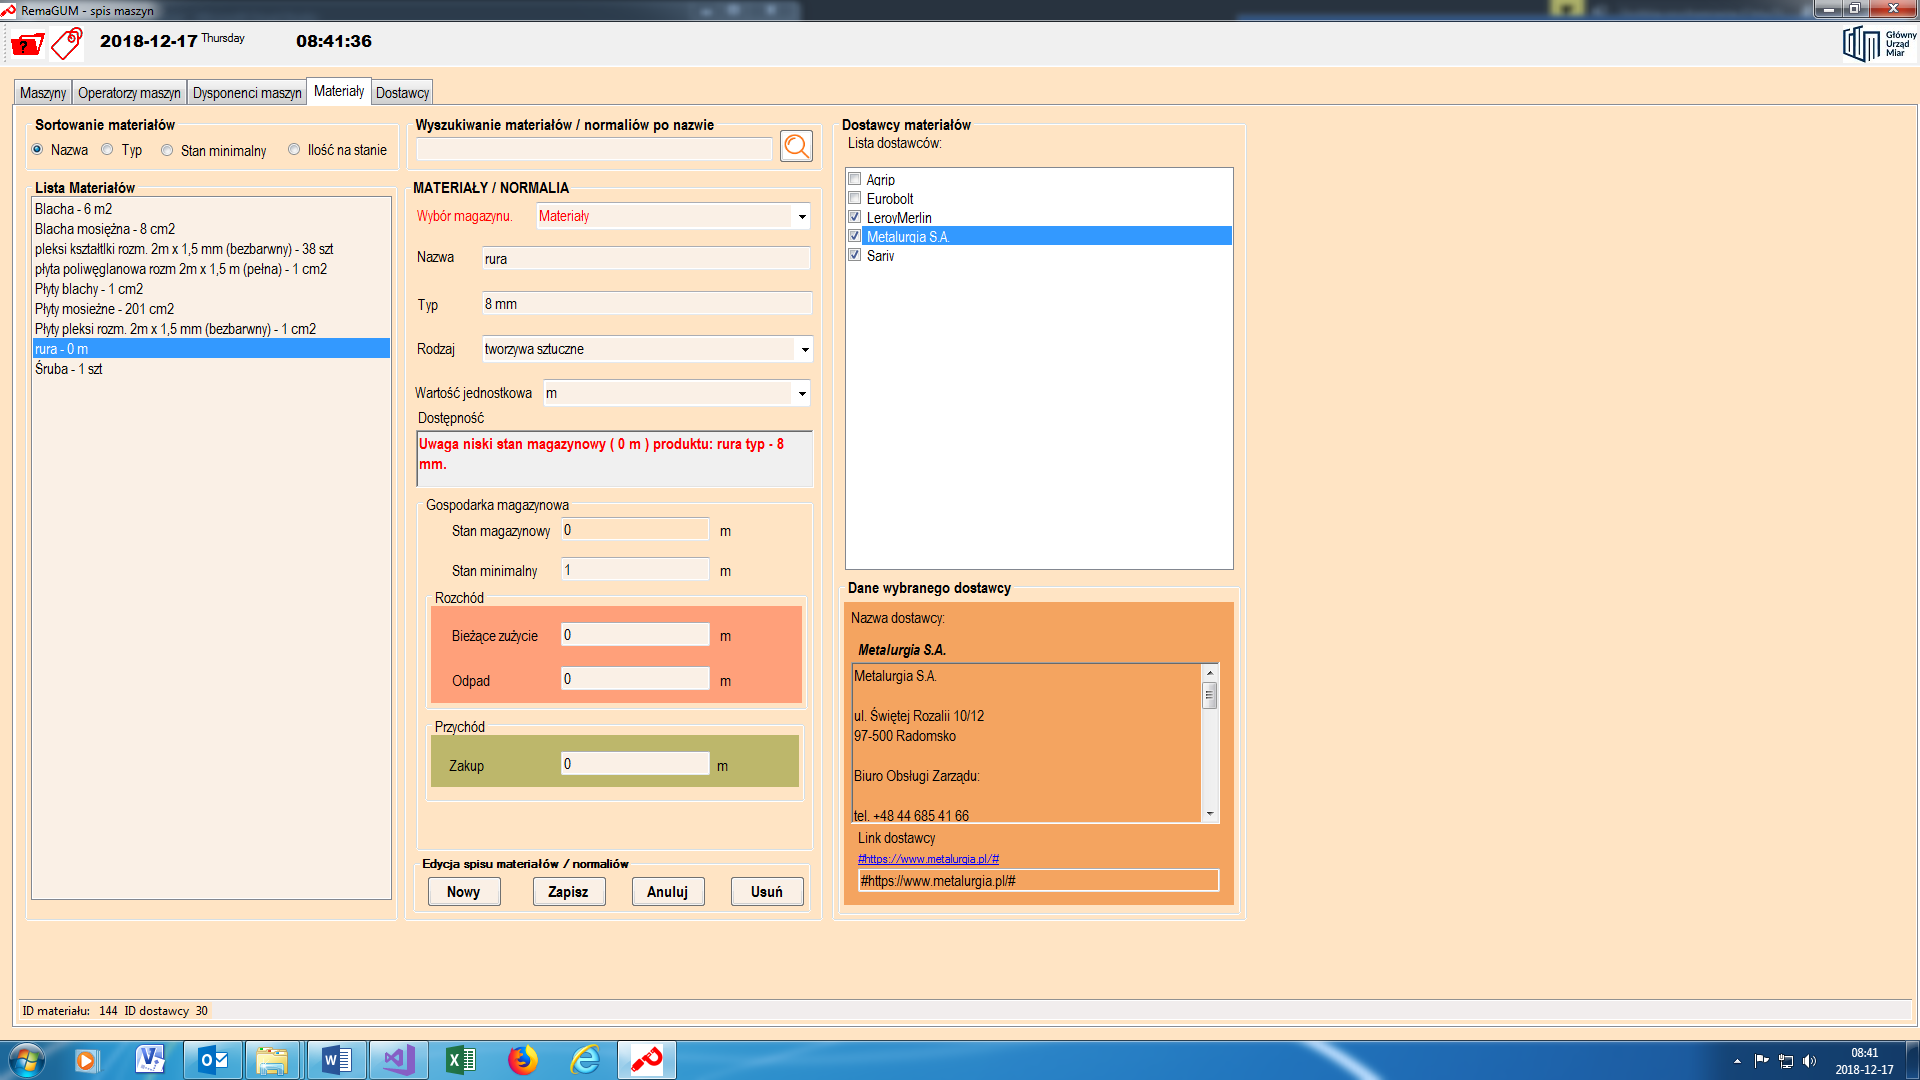
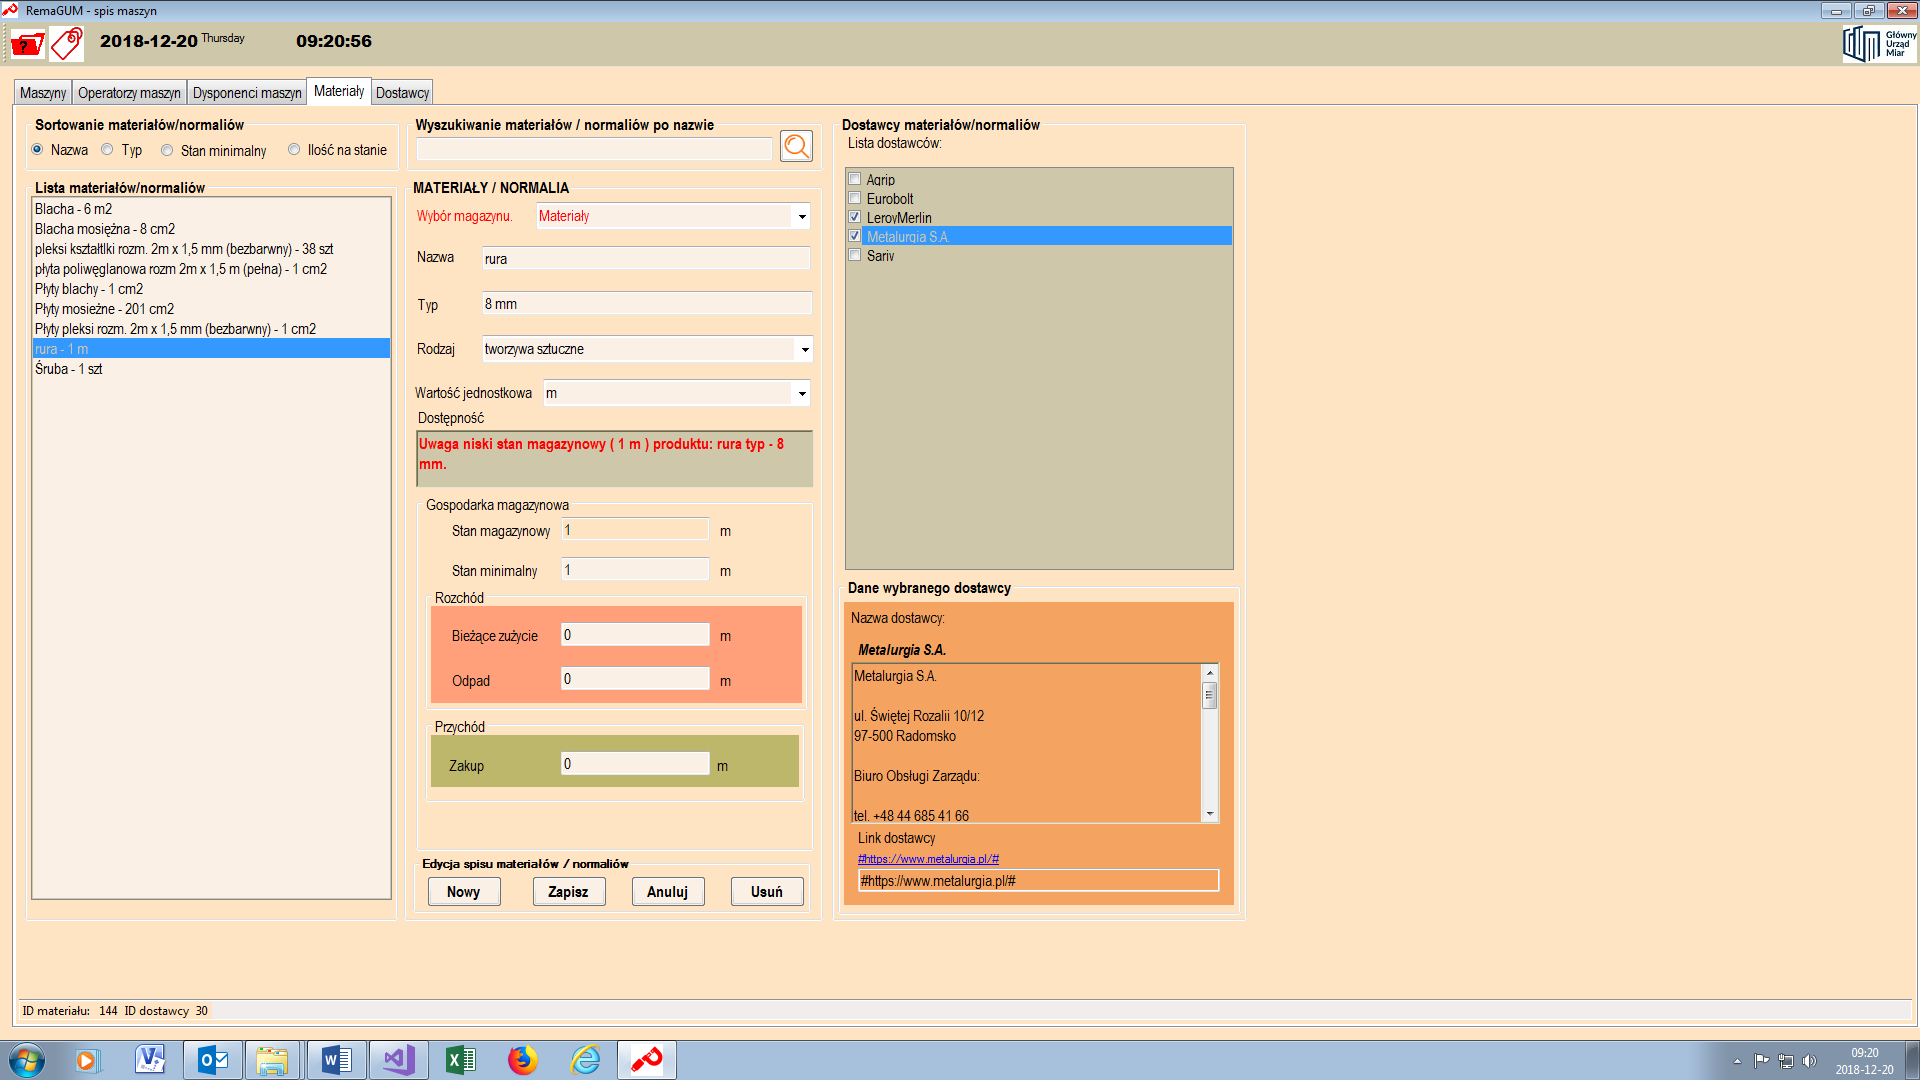
Dodanie treści helpu dla zakładki Materiały.

diff --git a/RemaGUM/SpisForm.Designer.cs b/RemaGUM/SpisForm.Designer.cs
@@ -221,8 +221,10 @@
             this.toolStripStatusLabel6 = new System.Windows.Forms.ToolStripStatusLabel();
             this.toolStripStatusLabelDostawcy = new System.Windows.Forms.ToolStripStatusLabel();
             this.groupBox17 = new System.Windows.Forms.GroupBox();
+            this.button1 = new System.Windows.Forms.Button();
             this.buttonUsunLink = new System.Windows.Forms.Button();
             this.textBoxNazwaDostawcy = new System.Windows.Forms.TextBox();
+            this.textBox1 = new System.Windows.Forms.TextBox();
             this.textBoxLinkDostawcy = new System.Windows.Forms.TextBox();
             this.label24 = new System.Windows.Forms.Label();
             this.label25 = new System.Windows.Forms.Label();
@@ -244,8 +246,6 @@
             this.labelDayOfWeek = new System.Windows.Forms.Label();
             this.timer1 = new System.Windows.Forms.Timer(this.components);
             this.labelZegar = new System.Windows.Forms.Label();
-            this.textBox1 = new System.Windows.Forms.TextBox();
-            this.button1 = new System.Windows.Forms.Button();
             this.Materiały.SuspendLayout();
             this.statusStripMaterialy.SuspendLayout();
             this.groupBox10.SuspendLayout();
@@ -367,7 +367,7 @@
             this.groupBox10.Size = new System.Drawing.Size(415, 767);
             this.groupBox10.TabIndex = 49;
             this.groupBox10.TabStop = false;
-            this.groupBox10.Text = "Dostawcy materiałów";
+            this.groupBox10.Text = "Dostawcy materiałów/normaliów";
             // 
             // groupBoxDostawca
             // 
@@ -965,7 +965,7 @@
             this.groupBox8.Size = new System.Drawing.Size(373, 704);
             this.groupBox8.TabIndex = 47;
             this.groupBox8.TabStop = false;
-            this.groupBox8.Text = "Lista Materiałów";
+            this.groupBox8.Text = "Lista materiałów/normaliów";
             // 
             // listBoxMaterialy
             // 
@@ -995,7 +995,7 @@
             this.groupBoxSorowanieMaterialow.Size = new System.Drawing.Size(375, 57);
             this.groupBoxSorowanieMaterialow.TabIndex = 50;
             this.groupBoxSorowanieMaterialow.TabStop = false;
-            this.groupBoxSorowanieMaterialow.Text = "Sortowanie materiałów";
+            this.groupBoxSorowanieMaterialow.Text = "Sortowanie materiałów/normaliów";
             // 
             // radioButtonMagazyn_ilosc_mat
             // 
@@ -2541,6 +2541,18 @@
             this.groupBox17.TabStop = false;
             this.groupBox17.Text = "Dane dostawcy";
             // 
+            // button1
+            // 
+            this.button1.BackColor = System.Drawing.Color.Linen;
+            this.button1.Font = new System.Drawing.Font("Arial Narrow", 12F, System.Drawing.FontStyle.Bold);
+            this.button1.Location = new System.Drawing.Point(269, 677);
+            this.button1.Name = "button1";
+            this.button1.Size = new System.Drawing.Size(97, 30);
+            this.button1.TabIndex = 55;
+            this.button1.Text = "Usuń Link";
+            this.button1.UseVisualStyleBackColor = false;
+            this.button1.Click += new System.EventHandler(this.buttonUsunLink_Click);
+            // 
             // buttonUsunLink
             // 
             this.buttonUsunLink.BackColor = System.Drawing.Color.Linen;
@@ -2561,6 +2573,15 @@
             this.textBoxNazwaDostawcy.Name = "textBoxNazwaDostawcy";
             this.textBoxNazwaDostawcy.Size = new System.Drawing.Size(356, 24);
             this.textBoxNazwaDostawcy.TabIndex = 54;
+            // 
+            // textBox1
+            // 
+            this.textBox1.BackColor = System.Drawing.Color.Linen;
+            this.textBox1.Font = new System.Drawing.Font("Arial Narrow", 11F);
+            this.textBox1.Location = new System.Drawing.Point(12, 647);
+            this.textBox1.Name = "textBox1";
+            this.textBox1.Size = new System.Drawing.Size(354, 24);
+            this.textBox1.TabIndex = 52;
             // 
             // textBoxLinkDostawcy
             // 
@@ -2807,27 +2828,6 @@
             this.labelZegar.Size = new System.Drawing.Size(105, 23);
             this.labelZegar.TabIndex = 50;
             this.labelZegar.Text = "labelZegar";
-            // 
-            // textBox1
-            // 
-            this.textBox1.BackColor = System.Drawing.Color.Linen;
-            this.textBox1.Font = new System.Drawing.Font("Arial Narrow", 11F);
-            this.textBox1.Location = new System.Drawing.Point(12, 647);
-            this.textBox1.Name = "textBox1";
-            this.textBox1.Size = new System.Drawing.Size(354, 24);
-            this.textBox1.TabIndex = 52;
-            // 
-            // button1
-            // 
-            this.button1.BackColor = System.Drawing.Color.Linen;
-            this.button1.Font = new System.Drawing.Font("Arial Narrow", 12F, System.Drawing.FontStyle.Bold);
-            this.button1.Location = new System.Drawing.Point(269, 677);
-            this.button1.Name = "button1";
-            this.button1.Size = new System.Drawing.Size(97, 30);
-            this.button1.TabIndex = 55;
-            this.button1.Text = "Usuń Link";
-            this.button1.UseVisualStyleBackColor = false;
-            this.button1.Click += new System.EventHandler(this.buttonUsunLink_Click);
             // 
             // SpisForm
             // 

diff --git a/RemaGUM/SpisForm.cs b/RemaGUM/SpisForm.cs
@@ -1727,7 +1727,7 @@ namespace RemaGUM
                 textBoxZapotrzebowanieMat.Text = "0";
 
                 // komunikat o niskim stanie magazynowym.
-                if (materialyBUS.VO.Stan_mat < materialyBUS.VO.Stan_min_mat)
+                if (materialyBUS.VO.Stan_mat <= materialyBUS.VO.Stan_min_mat)
                 {
                     richTextBoxKomunikatMaterialy.Text = ("Uwaga niski stan magazynowy ( " + materialyBUS.VO.Stan_mat + " " + materialyBUS.VO.Jednostka_miar_mat +" ) produktu: " + materialyBUS.VO.Nazwa_mat.ToString() + " typ - " + materialyBUS.VO.Typ_mat.ToString() + ". ");
 
